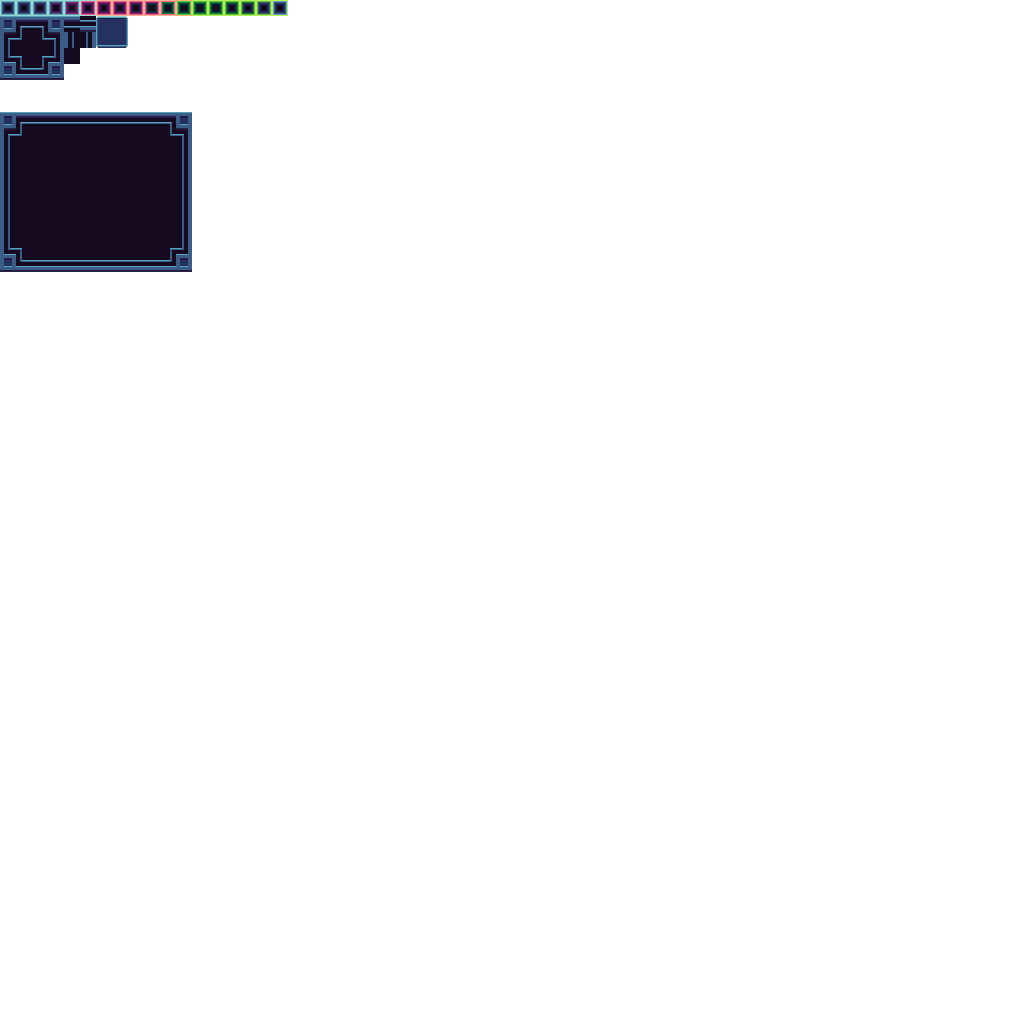
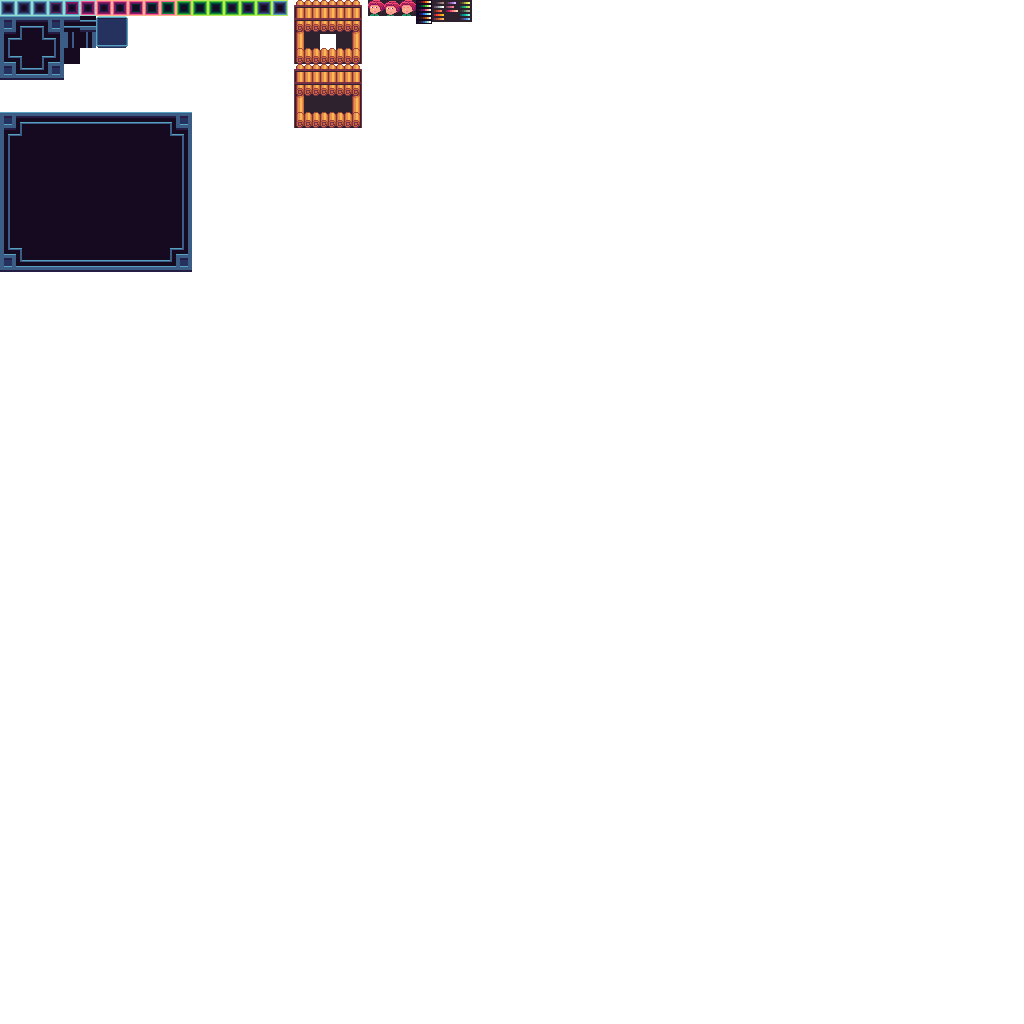
Shop

Changed region(s): [[0.2812, 0.0, 0.4688, 0.125]]

diff --git a/src/entities/creatures/shop/Shop.java b/src/entities/creatures/shop/Shop.java
@@ -1,0 +1,30 @@
+package entities.creatures.shop;
+
+import entities.creatures.Creature;
+import graphics.Animation;
+import graphics.Texture;
+import main_pack.Game;
+
+import java.awt.*;
+
+public class Shop extends Creature {
+    private Animation animation;
+    public Shop(float x, float y, Game game) {
+        super(x, y, game);
+        animation = new Animation(10,Texture.Inventory[23][0],Texture.Inventory[24][0],Texture.Inventory[25][0]);
+    }
+    public void tick() {
+        animation.runAnimation();
+    }
+
+    @Override
+    public void render(Graphics g) {
+        animation.drawAnimation(g,getPixelPosition(x+2),getPixelPosition(y+2)+16,128);
+        for (int yy = 0;yy<4;yy++) {
+            for (int xx = 0;xx<5;xx++) {
+                g.drawImage(Texture.Inventory[xx+18][yy],getPixelPosition(x+xx),getPixelPosition(y+yy),128,128,null);
+            }
+        }
+
+    }
+}

diff --git a/src/States/GameState.java b/src/States/GameState.java
@@ -6,6 +6,7 @@ import Handler.ProjectileHandler;
 import Maps.Map;
 import PlayerGui.PlayerGUI;
 import entities.creatures.*;
+import entities.creatures.shop.Shop;
 import entities.creatures.slotmachine.Slotmachine;
 import graphics.Camera;
 import graphics.Texture;
@@ -60,6 +61,7 @@ public class GameState extends State{
         //------------------------------------------------------------------
 
         //creatureHandler.addObject(new Spawner(30,30,game));
+        creatureHandler.addObject(new Shop(36,30,game));
         creatureHandler.addObject(new Slotmachine(36,36,game));
         creatureHandler.addObject(player);
         /*

diff --git a/src/graphics/Texture.java b/src/graphics/Texture.java
@@ -20,6 +20,7 @@ public class Texture {
     public static BufferedImage[] SlotMachine = new BufferedImage[13];
 
 
+
     public Texture() {
 
         BufferedImageLoader loader = new BufferedImageLoader();

diff --git a/src/ID_Lists/ID.java b/src/ID_Lists/ID.java
@@ -11,7 +11,8 @@ public enum ID {
     GreenSlime(),
     Dúath_láma(),
     Spawner(),
-    Slotmachine();
+    Slotmachine(),
+    Shop();
 
 
 
